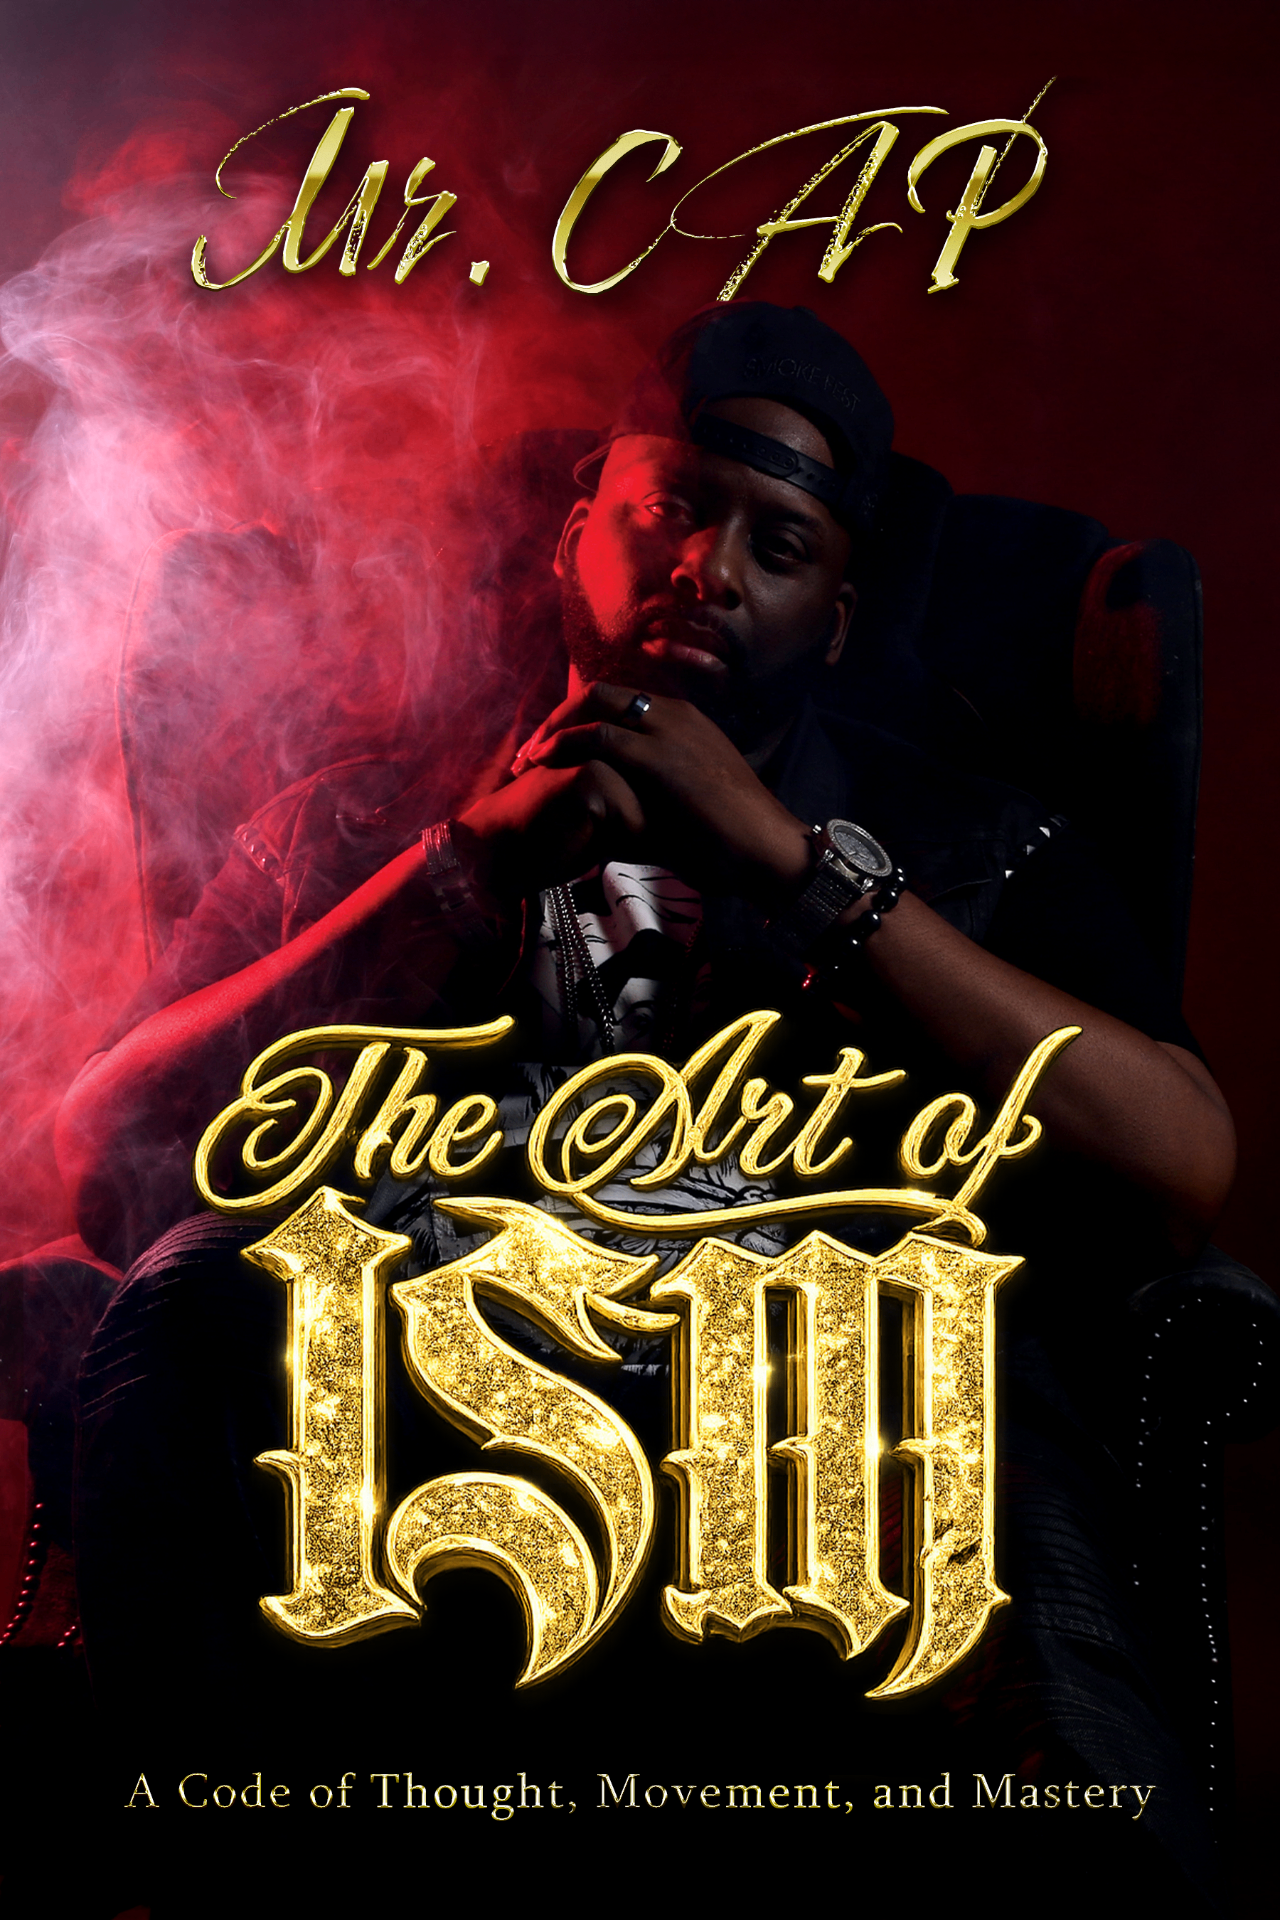
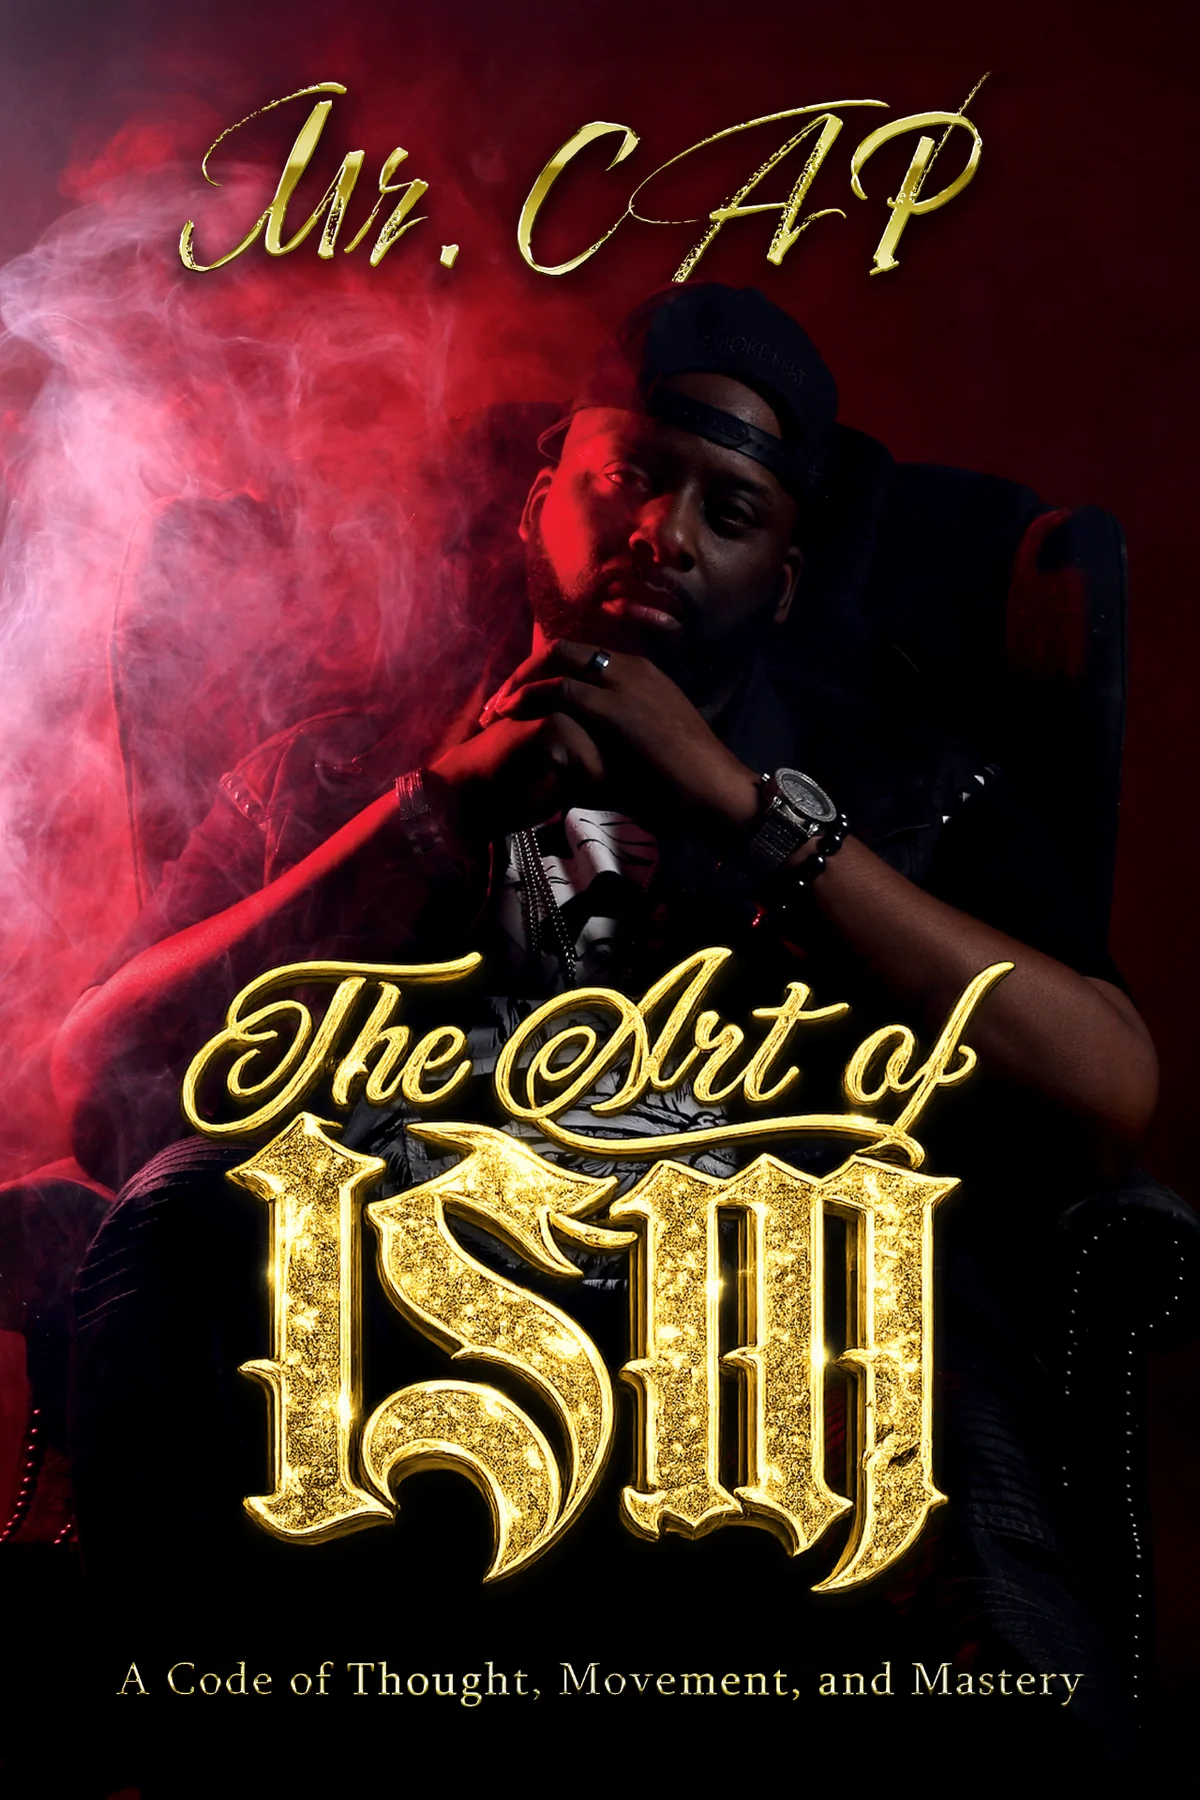
Changes

diff --git a/src/pages/Vault.tsx b/src/pages/Vault.tsx
@@ -4,9 +4,9 @@ import { ExternalLink, Lock, Gem, BookOpen, Music, Code2, X, Check } from 'lucid
 import { Button } from '@/components/ui/button';
 import FloatingNav from '@/components/FloatingNav';
 import Footer from '@/components/Footer';
-import foundersKeyImg from '@/assets/founders-key.png';
+import foundersKeyImg from '@/assets/founders-key.webp';
 import ChapterRelicsGallery from '@/components/vault/ChapterRelicsGallery';
-import vaultHeroBg from '@/assets/vault-hero-bg.png';
+import vaultHeroBg from '@/assets/vault-hero-bg.webp';
 
 const OPENSEA_URL = 'https://opensea.io/collection/artofism';
 

diff --git a/src/components/HeroSection.tsx b/src/components/HeroSection.tsx
@@ -2,9 +2,9 @@ import { motion, useScroll, useTransform } from 'framer-motion';
 import { Link } from 'react-router-dom';
 import { useRef } from 'react';
 import SectionAudioButton from '@/components/SectionAudioButton';
-import heroBg from '@/assets/hero-bg.png';
-import mobileHeroBg from '@/assets/mobile-hero-bg.png';
-import ismLogo from '@/assets/ism-logo.png';
+import heroBg from '@/assets/hero-bg.webp';
+import mobileHeroBg from '@/assets/mobile-hero-bg.webp';
+import ismLogo from '@/assets/ism-logo.webp';
 
 const stats = [
   { value: '11', label: 'Chapters' },

diff --git a/src/components/ChapterAudioPlayer.tsx b/src/components/ChapterAudioPlayer.tsx
@@ -2,7 +2,7 @@ import { useState, useRef, useEffect, useCallback } from 'react';
 import { motion, AnimatePresence } from 'framer-motion';
 import { Play, Pause, Volume2, VolumeX, Music } from 'lucide-react';
 import { supabase } from '@/integrations/supabase/client';
-import albumArt from '@/assets/album-art.jpg';
+import albumArt from '@/assets/album-art.webp';
 
 const CHAPTER_SONGS: Record<number, { file: string; title: string }> = {
   1:  { file: '1. 16 LETTER.wav',                title: '16 Letter' },

diff --git a/src/components/FloatingNav.tsx b/src/components/FloatingNav.tsx
@@ -3,7 +3,7 @@ import { Link, useLocation } from 'react-router-dom';
 import { Home, BookOpen, List, Code2, User, Library, LogIn, Gem } from 'lucide-react';
 import { motion } from 'framer-motion';
 import { useAuth } from '@/hooks/useAuth';
-import logo from '@/assets/logo.png';
+import logo from '@/assets/logo.webp';
 
 const navItems = [
   { label: 'Home', path: '/', icon: Home },

diff --git a/src/components/AboutAuthorSection.tsx b/src/components/AboutAuthorSection.tsx
@@ -1,7 +1,7 @@
 import AnimatedSection from './AnimatedSection';
 import { aboutAuthor } from '@/data/bookContent';
 import SectionAudioButton from '@/components/SectionAudioButton';
-import coverArt from '@/assets/art_of_ism_book_3.png';
+import coverArt from '@/assets/art_of_ism_book_3.webp';
 
 const AboutAuthorSection = () => {
   return (
